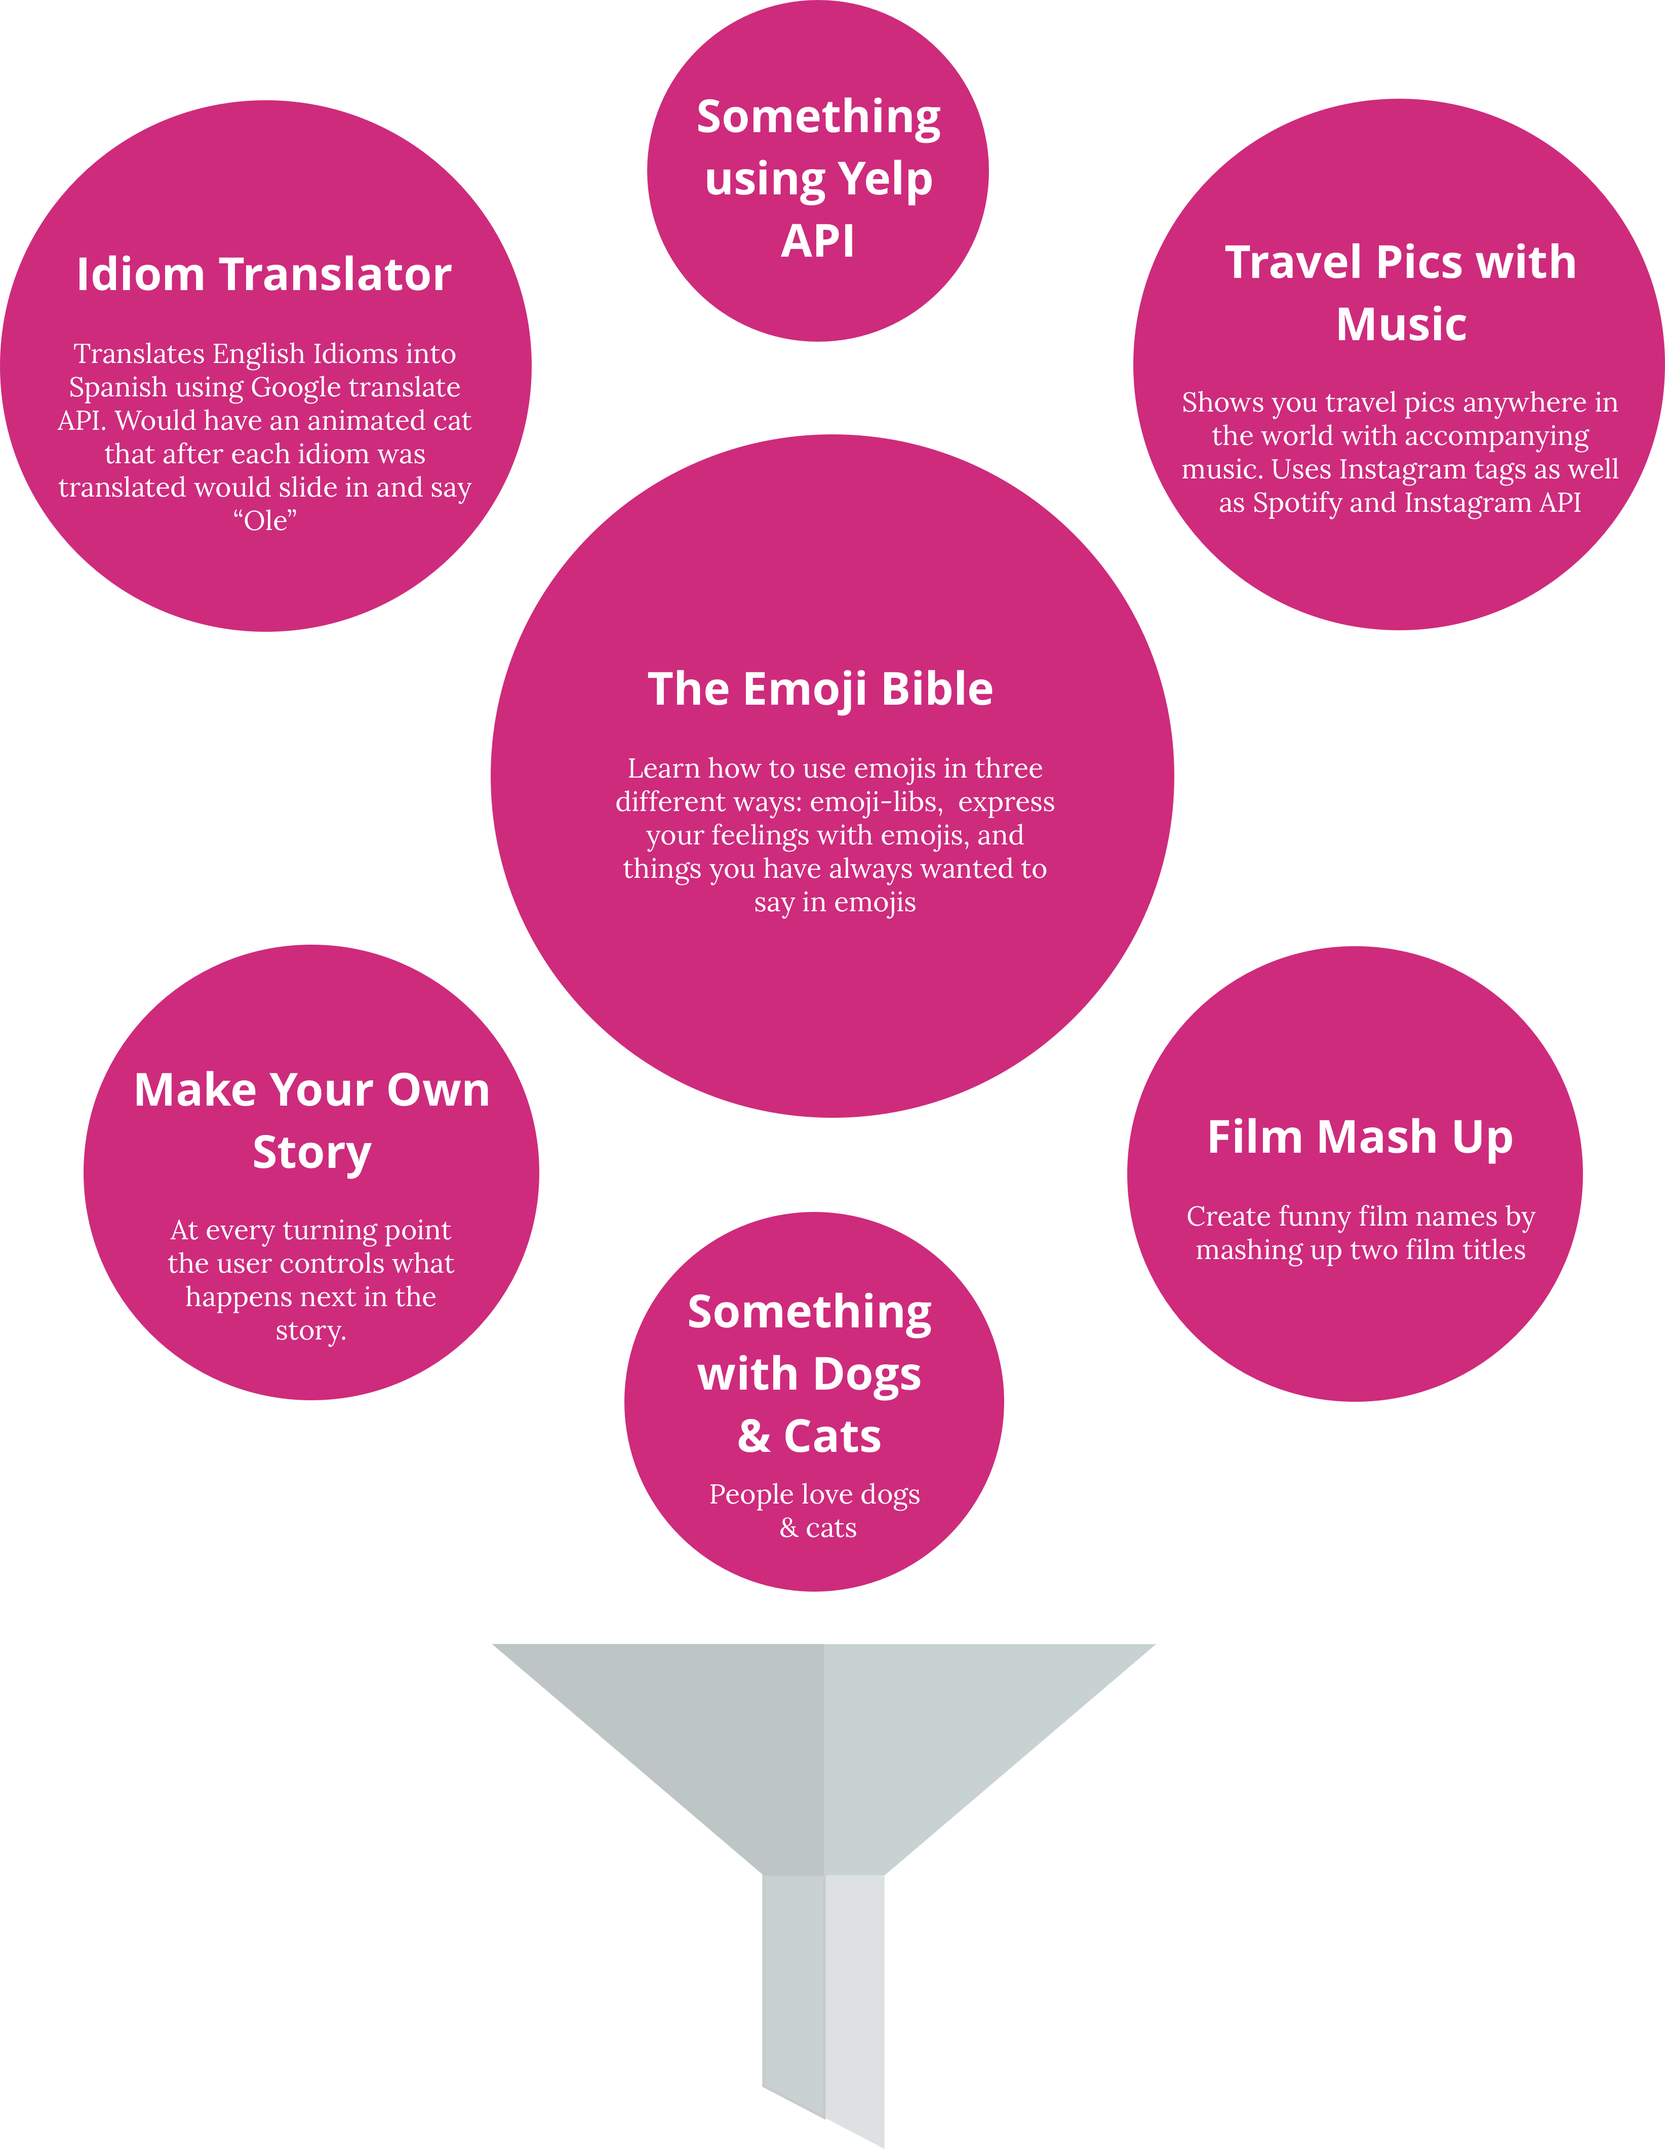
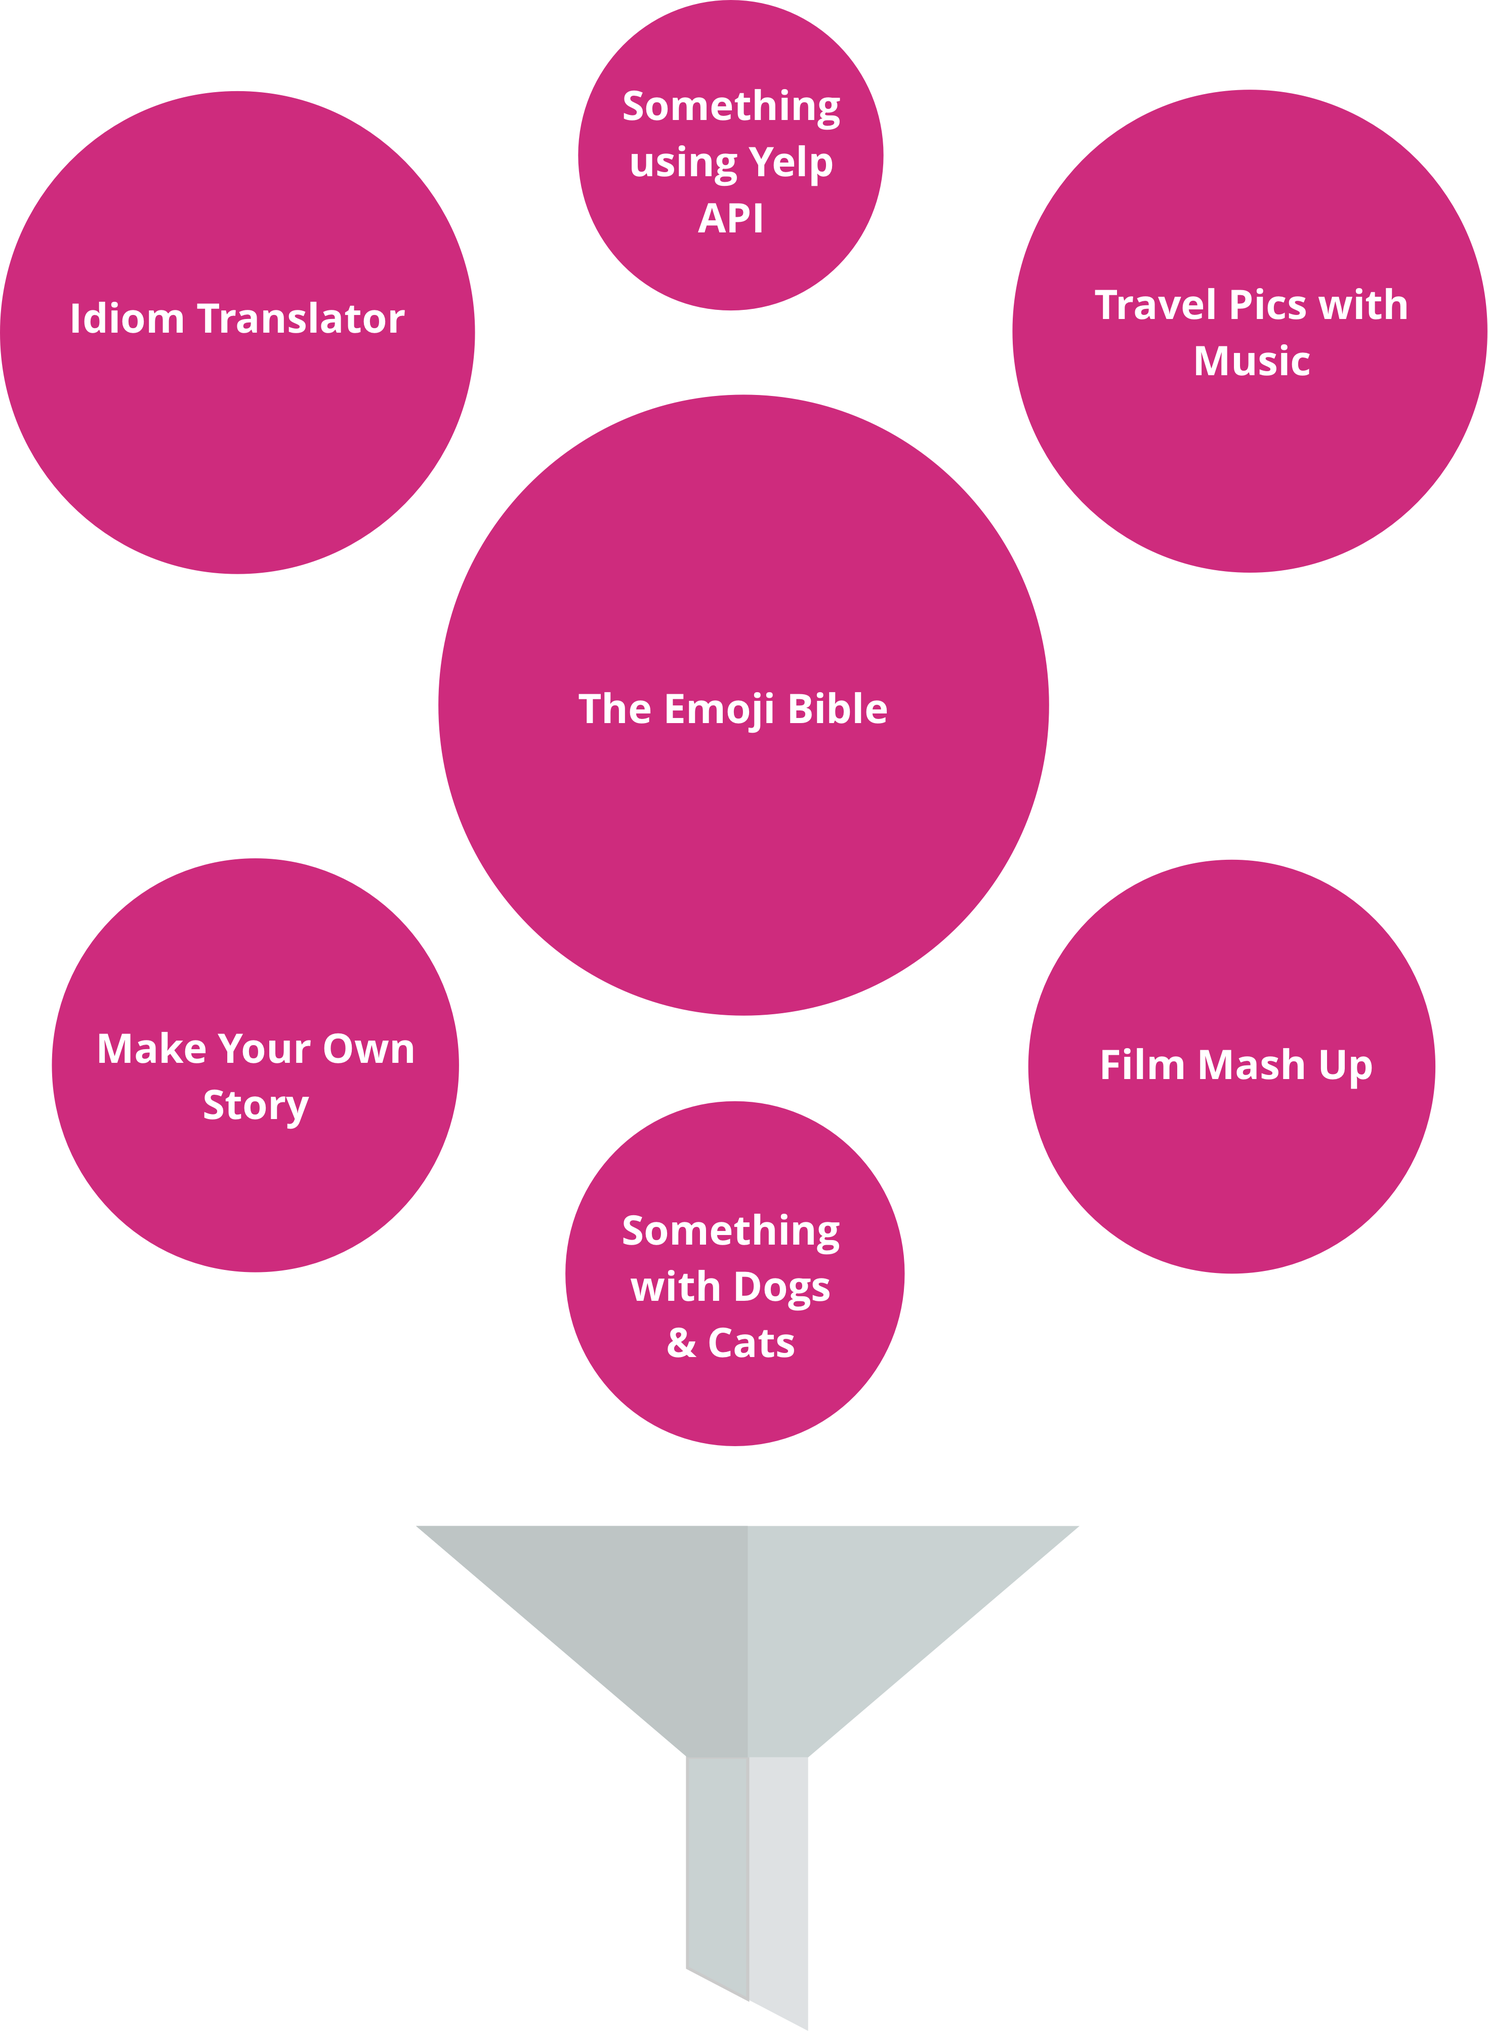
editing emoji libs

diff --git a/emoji-libs-port-temp.html b/emoji-libs-port-temp.html
@@ -156,11 +156,18 @@
 
 <div class= "allRecCircle">
   <div class="recCircle">
-  <p class="circleRecText"><b>The Emoji Bible</b><br>
-Learn how to use emojis in 3 different ways: emoji-libs,  express your feelings with emojis, and things you have always wanted to say in emojis</br></p>
+  <p class="circleRecTitle">The Emoji Bible</p>
+  <p class="circleRecText">
+    Learn how to use emojis in 3 different ways: emoji-libs,  express your feelings with emojis, and things you have always wanted to say in emojis</p>
   </div>
-  <div class="recCircle"><p class="circleRecText"><b>Idiom Translator</b><br>Translates English Idioms into Spanish using Google translate API. Also has animated cat that slides in after each idiom translation &amp says &#34;Ole&#34;</br></p></div>
-  <div class="recCircle"><p class="circleRecText"><b>Travel Pics &amp Music</b><br> Shows you travel pics from anywhere in the world with accompanying local music. Uses Instagram tags and  Spotify and Instagram APIs</br></p></div>
+  <div class="recCircle">
+  <p class="circleRecTitle">Idiom Translator</p>
+    <p class="circleRecText">Translates English Idioms into Spanish using Google translate API. Also has animated cat that slides in after each idiom translation &amp says &#34;Ole&#34;</p>
+  </div>
+  <div class="recCircle">
+      <p class="circleRecTitle">Travel Pics &amp Music</p>
+    <p class="circleRecText">Shows you travel pics from anywhere in the world with accompanying local music. Uses Instagram tags and  Spotify and Instagram APIs</p>
+  </div>
 </div>
     <div><p class="statement emojiPink">Vetting ideas</p></div>
 
@@ -172,7 +179,7 @@ Learn how to use emojis in 3 different ways: emoji-libs,  express your feelings 
           <div class="emojiText"><p><b>Concept user research</b><p>
             <p class= "emojiSubText">- Tested my top 3 ideas with 5+ users, ages 30-70
             </p>
-            <p class= "emojiSubText">- The overwhelming favorite for all users preferred was the Emoji idea
+            <p class= "emojiSubText">- Overwhelming favorite, The Emoji Bible
             </p>
           </div>
         </div>
@@ -181,20 +188,18 @@ Learn how to use emojis in 3 different ways: emoji-libs,  express your feelings 
           <div class="emojiIdeaDiv emojiIdeaDivEngineer">
             <img class="emojiIdeaImg emojiIdeaImgEngineer" alt="Two Crossed Light Sabers" src="myimages/emoji/strategy/emoji-engineer.png">
           </div>
-          <div class="emojiText"><p><b>View ideas with engineers</b><p>
+          <div class="emojiText"><p><b>Reviewed ideas with engineers</b><p>
             <p class= "emojiSubText">
               - Discouraged me from using certain APIs, like Yelp
             </p>
-            <p class= "emojiSubText">- Not excited about the concept of the travel site
+            <p class= "emojiSubText">- Not excited about the travel site concept
             </p>
-            <p class= "emojiSubText">- Liked the idea of the idiom translator
+            <p class= "emojiSubText">- Liked the idiom translator
             </p>
-            <p class= "emojiSubText">- Thought most of my ideas were viable
-            </p>
-            <p class= "emojiSubText">- But just couldn &#39;t get away from the idea of the Emoji site
+            <p class= "emojiSubText">- Thought all my ideas were technologically viable
             </p>
 
-            <p class= "emojiSubText"><b>- &#34;Emojis are just cool. You can&#39;t beat emojis.&#34;</b>
+            <p class= "emojiSubText">- However... <b>&#34;Emojis are just cool. You can&#39;t beat emojis!&#34;</b>
             </p>
           </div>
         </div>
@@ -206,26 +211,26 @@ Learn how to use emojis in 3 different ways: emoji-libs,  express your feelings 
 
           <div class="emojiText"><p><b>Competitor sites not too compelling</b><p>
             <p class= "emojiSubText">
-            - At the time, there were very few sites available for anything to do with understanding the meaning of emojis
+            - Few sites dealt with understanding the meaning of emojis
             </p>
-            <p class= "emojiSubText">- There are still are no sites for mad-libs with emojis
+            <p class= "emojiSubText">- No sites offered Mad Libs with emojis
             </p>
-            <p class= "emojiSubText">- Quality, design, and functionality of the emoji-related sites available were poor
+            <p class= "emojiSubText">- Quality, design, and functionality of these sites was poor
             </p>
           </div>
         </div>
 
     </div>
 
+
     <div><p class="statement emojiBlue">Think big, start small</p></div>
     <div class="thinkBigDiv">
-      <p class="thinkBigP">Due to demand, chose Emoji Bible, but did I <b>bite off more code than I could chew?</b> Our TAs said to cut back a bit.
+      <p class="thinkBigP1">I chose the Emoji Bible, but did I <b>bite off more code than I could chew?</b> Our TAs said to cut back.
     </div>
 
-<div class="bibAndLib">
-    <img class="bibAndLibImg" alt="Emoji Bible and Emoji Libs Screen shot" src="myimages/emoji/strategy/emoji-bib-lib.png">
-</div>
-
+    <div class="bibAndLib">
+        <img class="bibAndLibImg" alt="Emoji Bible and Emoji Libs Screen shot" src="myimages/emoji/strategy/emoji-bib-lib.png">
+    </div>
 
 <!-- <div class="">
 <p class="statement emojiPink">Emoji Bible</p>
@@ -274,7 +279,11 @@ Learn how to use emojis in 3 different ways: emoji-libs,  express your feelings 
 
 <div><p class="statement emojiPink">Where to start: the plan</p></div>
 
-<div class="problem">
+<div class="planImgDiv">
+    <img class="planImg" alt="Emoji Bible and Emoji Libs Screen shot" src="myimages/emoji/strategy/the-plan.png">
+</div>
+
+<!-- <div class="problem">
     <div class="bullet">
       <div class="decCircle emojiBlueBack"><p class="decNumber">1</p></div>
       <div class="problemText">
@@ -316,12 +325,15 @@ Learn how to use emojis in 3 different ways: emoji-libs,  express your feelings 
     </div>
   </div>
 
-</div>
+</div> -->
+
+<!--
+They say code is akin to language. I speak 2.25 languages andhave taught language. I would say that analogy holds up, to a point. Having no prior coding experience, with this class what was for sure was that I was learning a new paradigm - a new way to way to think, work, and communicate with my computer. -->
 
 <div class="processSectionTitle" id="researchSection">Discovery</div>
 <div class="thinkBigDiv">
   <p class="thinkBigP">
-    They say code is akin to language. I speak 2.25 languages andhave taught language. I would say that analogy holds up, to a point. Having no prior coding experience, with this class what was for sure was that I was learning a new paradigm - a new way to way to think, work, and communicate with my computer.
+    They say code is akin to language. I speak 2.25 languages, taught language, and believe this analogy holds up, to a point. Having no coding experience prior to this class, I was learning a new language: a new way to way to think, work, and communicate with my computer.
   </p>
 </div>
 
@@ -329,7 +341,7 @@ Learn how to use emojis in 3 different ways: emoji-libs,  express your feelings 
 
 <div class="thinkBigDiv">
   <p class="thinkBigP">
-  When I first began learning about HTML I would get this picture in my mind of Tupperware. I saw the &#34;divs&#34; as the containers of the content (photos, text, etc.), the space around the containers is the margin, and the space around the food/content inside these containers is the padding. I also like the metaphor of HTML as a skeleton that you attach content too, so essentially HTML is a skeleton made of Tupperware.
+  When I started learning HTML I would get this picture in my mind of Tupperware. I saw the &#34;divs&#34; as the containers of the content (photos, text, etc.), the space around the containers as the margin, and the space around the food/content inside these containers as the padding. I also like the metaphor of HTML as a skeleton that you attach content too, so to me HTML is a skeleton made of Tupperware.
   </p>
 </div>
 
@@ -339,7 +351,7 @@ Learn how to use emojis in 3 different ways: emoji-libs,  express your feelings 
 
 <div class="thinkBigDiv">
   <p class="thinkBigP">
-    My front-end development teacher, Avand, had this bad habit of saying: &#34;that&#39;s easy.&#34; And like that annoying Staples &#34;easy button&#34; him saying it didn&#39;t actually make it so. For my final project I was so focused on making it work I left making it look good until the end. Then Avand said: &#34;you can&#39;t save CSS to the end. CSS is hard!&#34; This for me was a huge victory as I had finally gotten Avand to admit that something was hard. But, all this to say, that <b>nothing in code can ever be taken for granted as &#34;easy.&#34;</b> Sometimes even the most basic things can trip you up, causing you to loose huge chunks of time.
+    My front-end development teacher, Avand, had this bad habit of saying: &#34;that&#39;s easy.&#34; And like that annoying Staples &#34;easy button&#34;, him saying it didn&#39;t actually make it so. For my final project I was so focused on &#34;making it work&#34; leaving CSS until the end. Avand said: &#34;you can&#39;t save CSS to the end. CSS is hard!&#34; This was a huge victory: Avand admited that something in code was hard! The truth is <b>nothing in code can ever be taken for granted as &#34;easy.&#34;</b> Sometimes even the most basic things can trip you up.
   </p>
 </div>
 
@@ -353,7 +365,7 @@ Learn how to use emojis in 3 different ways: emoji-libs,  express your feelings 
   </div>
 
   <div class="emojiReseachText">
-    <p><b>CSS is much more than a pretty face.</b> CSS does so much more than just add color and styling. Many people prefer even CSS over JavaScript for animations.</p>
+    <p><b>CSS is much more than a pretty face.</b> It does much more than color and styling. For animations, many people even prefer CSS over JavaScript.</p>
   </div>
 </div>
 
@@ -363,7 +375,7 @@ Learn how to use emojis in 3 different ways: emoji-libs,  express your feelings 
   </div>
 
   <div class="emojiReseachText">
-    <p><b>In CSS, he who speaks last, speaks loudest.</b> This can be a blessing and a curse. A blessing in that you can easily overwrite things by just changing the order. The curse is that sometimes you have multiple classes and styles (especially on main elements: table, etc.) that can screw you up without you knowing why. </p>
+    <p><b>In CSS, he who speaks last, speaks loudest.</b> This is a blessing and a curse. A blessing in that you can easily overwrite things by changing the order. A curse as multiple classes (especially on elements: table, etc.) can cause to to accidently overwrite previous code. </p>
   </div>
 </div>
 
@@ -373,7 +385,7 @@ Learn how to use emojis in 3 different ways: emoji-libs,  express your feelings 
   </div>
 
   <div class="emojiReseachText">
-    <p><b>CSS may never give you why or where.</b> With some languages, like JavaScript will tell you exactly where the error is and maybe even a bit about why its not working. But with CSS you are mostly on your own. Good luck.
+    <p><b>CSS may never give you why or where.</b> Some languages, like JavaScript will tell you exactly where the error is and maybe even a bit about why it&#39;s not working. But with CSS you are mostly on your own. Good luck.
  </p>
   </div>
 </div>
@@ -384,7 +396,7 @@ Learn how to use emojis in 3 different ways: emoji-libs,  express your feelings 
   </div>
 
   <div class="emojiReseachText">
-    <p><b>Time, time, time is not on your side, no it&#39;s not.</b> Some of the &#34;easiest&#34; things in CSS can take hours to fix, even for seasoned developers.
+    <p><b>Time, time, time is not on your side, no it&#39;s not.</b> Some of the seamingly &#34;easiest&#34; things in CSS can take hours, even for seasoned developers.
     </p>
   </div>
 </div>
@@ -393,7 +405,7 @@ Learn how to use emojis in 3 different ways: emoji-libs,  express your feelings 
 
 <div class="thinkBigDiv">
   <p class="thinkBigP">
-    <b>And what&#39;s even worse, the analogies.</b> Somehow visualizing variables as a &#34;bucket&#34; and functions as a &#34;sausage factory&#34; - is supposed to help you to understand inherently difficult concepts. It doesn&#39;t.
+    <b>And what&#39;s even worse: the analogies.</b> Somehow visualizing variables as a &#34;bucket&#34; and functions as a &#34;sausage factory&#34; - is supposed to help you to understand inherently difficult concepts. It doesn&#39;t.
   </p>
 </div>
 
@@ -418,7 +430,7 @@ Learn how to use emojis in 3 different ways: emoji-libs,  express your feelings 
   </div>
 
   <div class="emojiReseachText">
-    <p><b>Gives you a clue about the where if not also the why (sort of).</b> JavaScript tells you the exact place where the error starts, the actual line. It also gives you a bit of information about what caused the error although it&#39;s usually in computer speak like: something is &#34;null,&#34; &#34;undefined is not a function,&#34; or &#34;unexpected token ILLEGAL&#34; - am I going to coding jail?
+    <p><b>Gives you a clue about the where if not also the why (sort of).</b> JavaScript tells you the exact line where the error starts. It also gives you information about what caused the error, although usually in computer speak: &#34;unexpected token ILLEGAL&#34; - am I going to coding jail?
  </p>
   </div>
 </div>

diff --git a/emoji-libs-port.css b/emoji-libs-port.css
@@ -45,7 +45,7 @@ vetting ideas*/
   text-align: center;
 }
 .compShots{
-  width:80%;
+  width:70%;
   margin-bottom: 2%;
 
 }
@@ -58,23 +58,31 @@ vetting ideas*/
 }
 
 .recCircle{
-width:260px;
-height:260px;
+width:300px;
+height:300px;
 border-radius:50%;
 border: solid 3px rgb(0,111,255);
 color: rgb(74, 74, 74);
 display:inline-block;
-margin-left: 2%;
+margin: 2%;
 position:relative;
+}
+
+.circleRecTitle{
+  font-size: 24px;
+  font-weight: bold;
+  position:absolute;
+  width:100%;
+    padding-top:20%;
 }
 
 .circleRecText{
   font-size: 18px;
   position:absolute;
   width:100%;
-  padding-top:15%;
-  padding-left:7%;
-  padding-right:7%;
+  padding-top:35%;
+  padding-left:8%;
+  padding-right:8%;
 }
 
 /*VETTING IDEAS*/
@@ -134,14 +142,32 @@ width:350px;
   margin:0 auto;
 }
 
+.thinkBigP1{
+    font-size: 24px;
+    text-align: left;
+    margin-bottom: 3%;
+}
+
 .thinkBigP{
   text-align: left;
-  margin-bottom: 3%;
 }
+
 
 .bibAndLibImg{
   width:80%;
 }
+
+/*STRATEGY:
+THE PLAN*/
+
+/*.planImgDiv{
+  text-align: center;
+}*/
+.planImg{
+  width:70%;
+  margin: 0 auto;
+}
+
 
 /*.compThreatLogosDiv{
   text-align: center;
